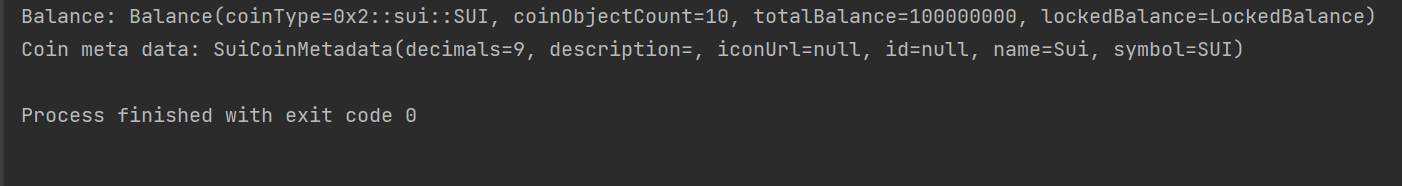
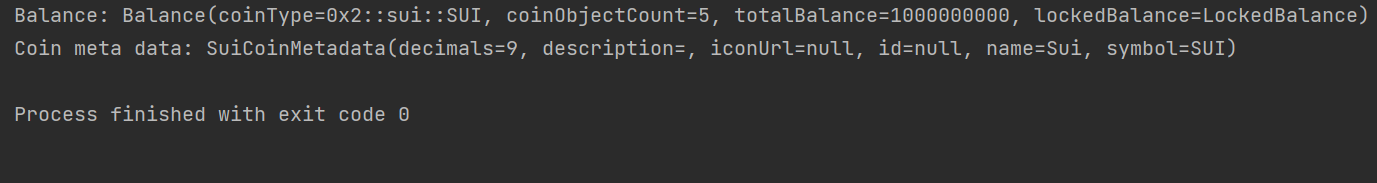
update README...

Changed region(s): [[0.0, 0.0273, 0.9993, 0.1366], [0.0, 0.2186, 0.9056, 0.3279], [0.0, 0.5738, 0.3123, 0.6831]]

diff --git a/README.md b/README.md
@@ -1,6 +1,6 @@
-<h1 align="center">KSui - KMP Library for Sui</h1>
+<h1 align="center">Ksui - KMP Library for Sui</h1>
 
-KSui is a collection of Multiplatform Kotlin language JSON-RPC wrapper and crypto utilities for interacting with the Sui Devnet and Sui Full node.
+Ksui, /keɪˈsuːiː/ (pronounced as "kay-soo-ee"), is a collection of Multiplatform Kotlin language JSON-RPC wrapper and crypto utilities for interacting with the Sui Devnet and Sui Full node.
 
 ![SUI JSON-RPC version](https://img.shields.io/badge/Sui%20JSON--RPC-0.29.0-blue.svg)
 ![Platform](https://img.shields.io/badge/platform-Android%20|%20JVM%20|%20Web%20|%20Native-blue.svg)
@@ -40,24 +40,24 @@ After the client is configured, it can be used to invoke remote procedures e.g. 
 The client supports both DSL and command-query styles for client creation and RPC calls respectively as shown below:
 ```kotlin
 //Configure Client, DSL Style
-val suiRpcClient = createSuiHttpClient {
+val suiHttpClient = createSuiHttpClient {
     endpoint = EndPoint.DEVNET
     agentName = "KSUI/0.0.1"
     maxRetries = 10
 }
 //Invoke remote procedure, command-query style
-val balance = suiRpcClient.getBalance(SuiAddress("0x3b1db4d4ea331281835e2b450312f82fc4ab880a"))
-val coinMetadata = suiRpcClient.getCoinMetadata("0x2::sui::SUI")
+val balance = suiHttpClient.getBalance(SuiAddress("0x3b1db4d4ea331281835e2b450312f82fc4ab880a"))
+val coinMetadata = suiHttpClient.getCoinMetadata("0x2::sui::SUI")
 ```
 
-<img src="asset/print.png" alt="KSui output" />
+<img src="asset/print.png" alt="Ksui output" />
 
 ## What's included
 | File/Folder      | Description                                                                                             |
 |------------------|---------------------------------------------------------------------------------------------------------|
-| [lib](lib)       | Library implementation folder. It contains the code for KSui that can be used across multiple platforms |
+| [lib](lib)       | Library implementation folder. It contains the code for Ksui that can be used across multiple platforms |
 | [sample](sample) | Samples on how to use the exported APIs                                                                 |
 
 ## Contribution
 
-All contributions to KSui are welcome. Before opening a PR, please submit an issue detailing the bug or feature. When opening a PR, please ensure that your contribution builds on the KMM toolchain, has been linted with `ktfmt <GOOGLE (INTERNAL)>`, and contains tests when applicable. For more information, please see the [contribution guidelines](CONTRIBUTING.md).
+All contributions to Ksui are welcome. Before opening a PR, please submit an issue detailing the bug or feature. When opening a PR, please ensure that your contribution builds on the KMM toolchain, has been linted with `ktfmt <GOOGLE (INTERNAL)>`, and contains tests when applicable. For more information, please see the [contribution guidelines](CONTRIBUTING.md).
